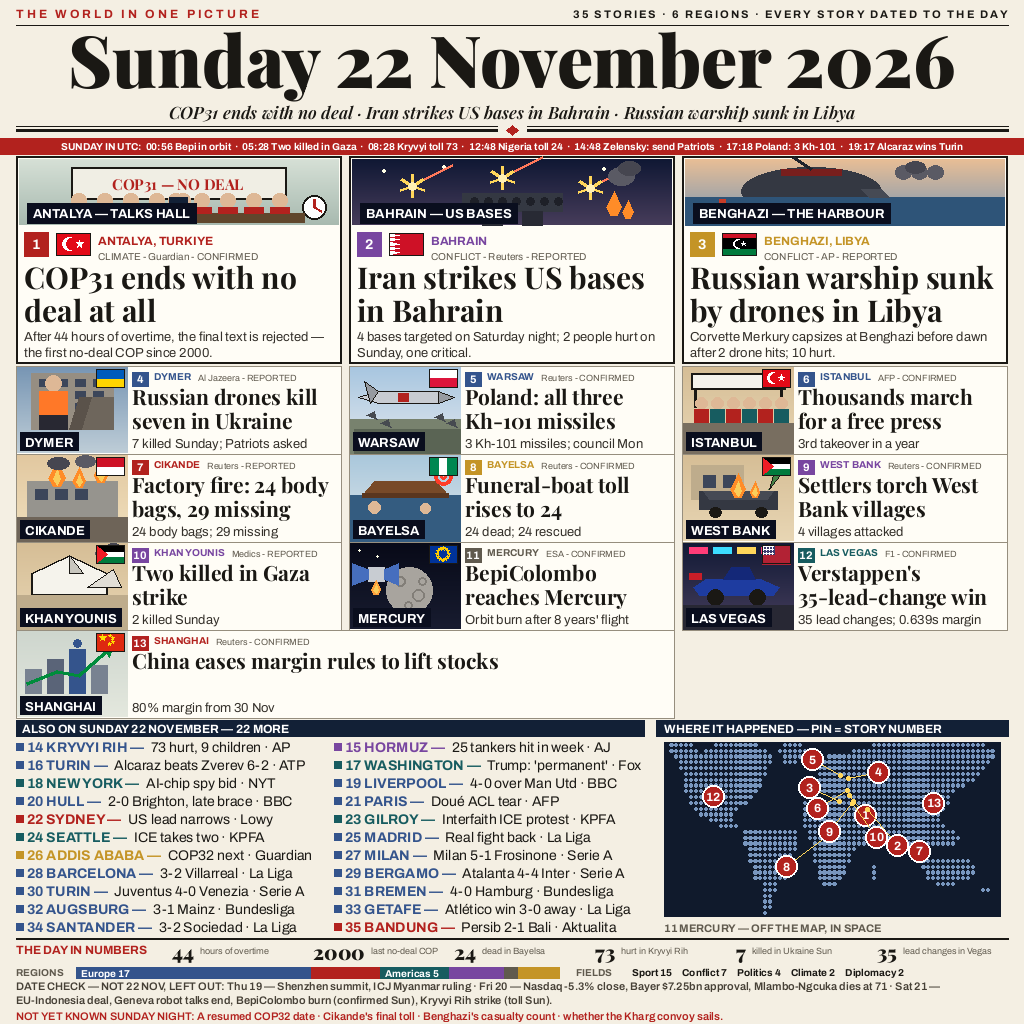
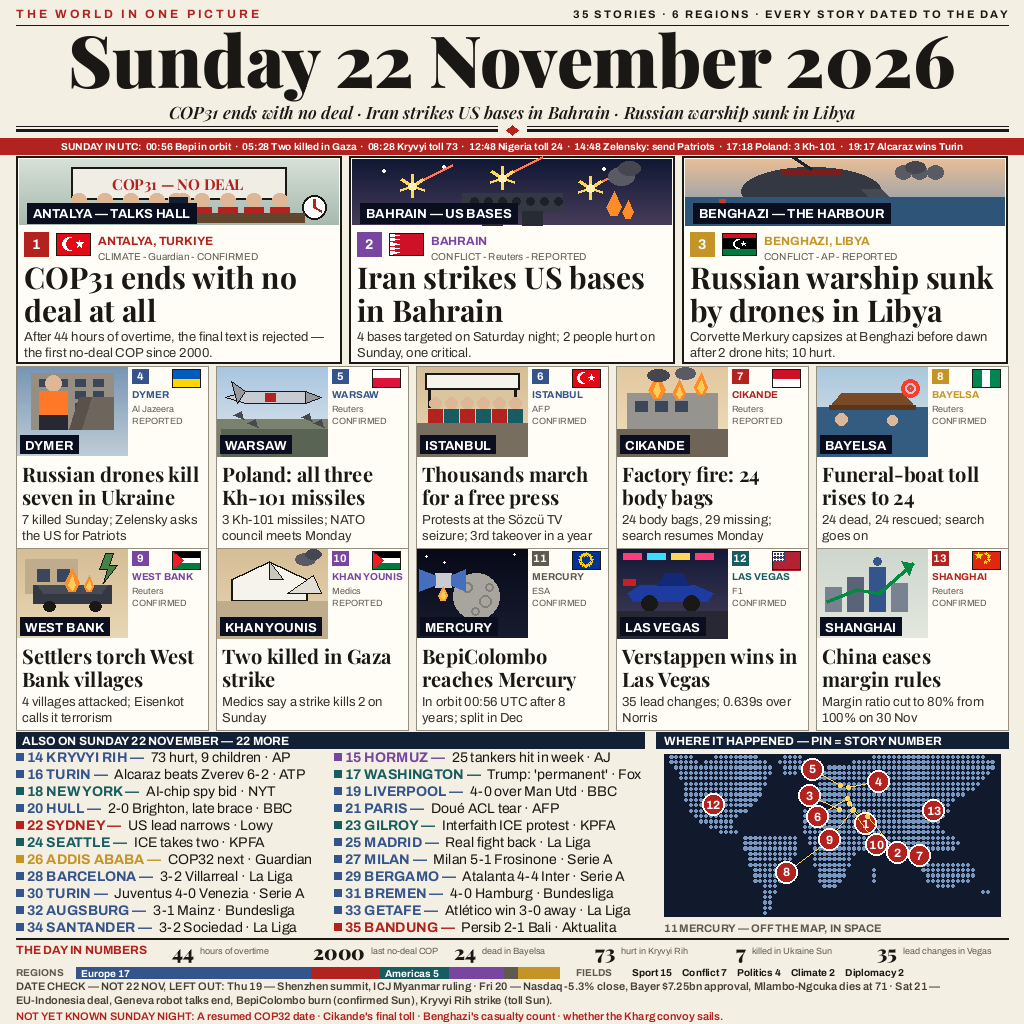
Winners' compact cards: 5-across x 2 rows, native scene + meta column, 20px headlines, merged decks

Changed region(s): [[0.0, 0.3438, 1.0, 0.9062]]

diff --git a/draw.py b/draw.py
@@ -79,7 +79,7 @@ CARDS = [
      "Istanbul protests the Sözcü TV seizure; a third media takeover "
      "in a year.", "AFP", "C"),
     ("CIKANDE", "ASI", "Disaster",
-     "Factory fire: 24 body bags, 29 missing",
+     "Factory fire: 24 body bags",
      "Search goes on after the candy-factory blaze; it resumes Monday.",
      "Reuters", "R"),
     ("BAYELSA", "AFR", "Disaster",
@@ -100,11 +100,11 @@ CARDS = [
      + FIG["bepicolombo_years"] + " years; orbiters split in December.",
      "ESA", "C"),
     ("LAS VEGAS", "AME", "Sport",
-     "Verstappen's 35-lead-change win",
+     "Verstappen wins in Las Vegas",
      "Holds off Norris by " + FIG["vegas_margin"] + "s in Las Vegas; "
      "Piastri third.", "F1", "C"),
     ("SHANGHAI", "ASI", "Economy",
-     "China eases margin rules to lift stocks",
+     "China eases margin rules",
      "Exchanges cut the minimum margin ratio to "
      + FIG["china_margin_new"] + " from " + FIG["china_margin_old"]
      + " on 30 November.", "Reuters", "C"),
@@ -554,19 +554,25 @@ def flag(d, code, x, y, w=34, h=22):
     d.rectangle([x, y, x + w, y + h], outline=INK, width=1)
 
 
-CARD_INFO = [
-    FIG["ukraine_killed_sunday"] + " killed Sunday; Patriots asked",
-    FIG["poland_missiles"] + " Kh-101 missiles; council Mon",
-    FIG["istanbul_takeover"] + " takeover in a year",
-    FIG["cikande_body_bags"] + " body bags; " + FIG["cikande_missing"]
-    + " missing",
-    FIG["bayelsa_dead"] + " dead; " + FIG["bayelsa_rescued"] + " rescued",
-    FIG["westbank_villages"] + " villages attacked",
-    FIG["gaza_killed_sunday"] + " killed Sunday",
-    "Orbit burn after " + FIG["bepicolombo_years"] + " years' flight",
+CARD_DECK = [
+    FIG["ukraine_killed_sunday"] + " killed Sunday; Zelensky asks the US "
+    "for Patriots",
+    FIG["poland_missiles"] + " Kh-101 missiles; NATO council meets Monday",
+    "Protests at the S\u00f6zc\u00fc TV seizure; " + FIG["istanbul_takeover"]
+    + " takeover in a year",
+    FIG["cikande_body_bags"] + " body bags, " + FIG["cikande_missing"]
+    + " missing; search resumes Monday",
+    FIG["bayelsa_dead"] + " dead, " + FIG["bayelsa_rescued"]
+    + " rescued; search goes on",
+    FIG["westbank_villages"] + " villages attacked; Eisenkot calls it "
+    "terrorism",
+    "Medics say a strike kills " + FIG["gaza_killed_sunday"] + " on Sunday",
+    "In orbit 00:56 UTC after " + FIG["bepicolombo_years"]
+    + " years; split in Dec",
     FIG["vegas_lead_changes"] + " lead changes; " + FIG["vegas_margin"]
-    + "s margin",
-    FIG["china_margin_new"] + " margin from 30 Nov",
+    + "s over Norris",
+    "Margin ratio cut to " + FIG["china_margin_new"] + " from "
+    + FIG["china_margin_old"] + " on 30 Nov",
 ]
 
 CARD_FLAGS = ["UA", "PL", "TR", "ID", "NG", "PS", "PS", "EU", "US", "CN"]
@@ -861,50 +867,54 @@ def main():
         text_block(d, x + 8, yy + 7, deck, SANS(13), (52, 48, 42), hw - 16, 16,
                    max_lines=2, tag=f"herodeck{i}")
     # ---------------------------------------------------------- cards
+    # compact winners' format: 5 across x 2 rows; native-size scene at
+    # the left, number/flag/place/source column beside it, headline and
+    # a merged deck (deck + key-fact line fused) below. 2 rows x 176px
+    # = the old 4 rows x 88px, so nothing below this block moves.
     cy = hy + hh + 3
-    chh, chw = 88, hw
+    chh, chw = 182, (W - 32 - 32) // 5
     for i, card in enumerate(CARDS):
-        place, region, field, head, deck, src, sure = card
-        x = 16 + (i % 3) * (chw + 8)
-        yy0 = cy + (i // 3) * chh
-        effw = chw * 2 + 8 if i == len(CARDS) - 1 else chw
-        d.rectangle([x, yy0, x + effw, yy0 + chh], fill=(255, 253, 246),
+        place, region, field, head, deck0, src, sure = card
+        x = 16 + (i % 5) * (chw + 8)
+        yy0 = cy + (i // 5) * chh
+        d.rectangle([x, yy0, x + chw, yy0 + chh], fill=(255, 253, 246),
                     outline=(150, 142, 126), width=1)
         for seg, lab in (
-                ((x, yy0, x + effw, yy0), f"card{i+4} top"),
-                ((x, yy0 + chh, x + effw, yy0 + chh), f"card{i+4} bottom"),
+                ((x, yy0, x + chw, yy0), f"card{i+4} top"),
+                ((x, yy0 + chh, x + chw, yy0 + chh), f"card{i+4} bottom"),
                 ((x, yy0, x, yy0 + chh), f"card{i+4} left"),
-                ((x + effw, yy0, x + effw, yy0 + chh), f"card{i+4} right")):
+                ((x + chw, yy0, x + chw, yy0 + chh), f"card{i+4} right")):
             LINES.append((seg, lab))
         for seg, lab in (
-                ((x, yy0, x + effw, yy0), f"card{i+4} top"),
-                ((x, yy0 + chh, x + effw, yy0 + chh), f"card{i+4} bottom"),
+                ((x, yy0, x + chw, yy0), f"card{i+4} top"),
+                ((x, yy0 + chh, x + chw, yy0 + chh), f"card{i+4} bottom"),
                 ((x, yy0, x, yy0 + chh), f"card{i+4} left"),
-                ((x + effw, yy0, x + effw, yy0 + chh), f"card{i+4} right")):
+                ((x + chw, yy0, x + chw, yy0 + chh), f"card{i+4} right")):
             LINES.append((seg, lab))
         TAG[0] = ("card", i)
-        CARD_SCENES[i](d, x + 1, yy0 + 1, 110, chh - 2)
+        CARD_SCENES[i](d, x + 1, yy0 + 1, 110, chh // 2 - 2)
         TAG[0] = None
-        flag(d, CARD_FLAGS[i], x + 80, yy0 + 3, w=28, h=18)
-        FLAGS.append(((x + 80, yy0 + 3, x + 108, yy0 + 21), f"card{i+4} flag", ("card", i)))
+        flag(d, CARD_FLAGS[i], x + 156, yy0 + 3, w=28, h=18)
+        FLAGS.append(((x + 156, yy0 + 3, x + 184, yy0 + 21),
+                      f"card{i+4} flag", ("card", i)))
         tx = x + 116
-        d.rectangle([tx, yy0 + 6, tx + 16, yy0 + 20],
+        d.rectangle([tx, yy0 + 3, tx + 16, yy0 + 17],
                     fill=REGIONS[region][1])
-        t = str(i + 4)
-        d.text((tx + 8 - d.textlength(t, font=SANS_B(11)) / 2, yy0 + 7),
-               t, font=SANS_B(11), fill=(255, 255, 255))
-        d.text((tx + 22, yy0 + 5), place, font=SANS_B(10),
+        tnum = str(i + 4)
+        d.text((tx + 8 - d.textlength(tnum, font=SANS_B(11)) / 2, yy0 + 4),
+               tnum, font=SANS_B(11), fill=(255, 255, 255))
+        d.text((tx, yy0 + 23), place, font=SANS_B(10),
                fill=REGIONS[region][1])
-        mx = tx + 22 + d.textlength(place, font=SANS_B(10)) + 7
-        cmeta = f"{src} - {SURE_LABEL[sure]}"
-        d.text((mx, yy0 + 7), cmeta, font=SANS(9), fill=MUTE)
-        check_h(f"card{i+4} meta", cmeta, SANS(9), mx, x + effw - 6)
-        text_block(d, tx, yy0 + 16, head, SERIF(21), INK, effw - 123, 24,
+        check_h(f"card{i+4} place", place, SANS_B(10), tx, x + chw - 4)
+        d.text((tx, yy0 + 38), src, font=SANS(9), fill=MUTE)
+        d.text((tx, yy0 + 50), SURE_LABEL[sure], font=SANS(9), fill=MUTE)
+        check_h(f"card{i+4} src", src, SANS(9), tx, x + chw - 4)
+        text_block(d, x + 6, yy0 + 94, head, SERIF(20), INK, chw - 12, 23,
                    max_lines=2, tag=f"card{i}")
-        d.text((tx, yy0 + 70), CARD_INFO[i], font=SANS(13),
-               fill=(52, 48, 42))
-        check_h(f"card{i+4} info", CARD_INFO[i], SANS(13), tx, x + effw - 6)
-    by = cy + 3 * chh + chh + 2
+        text_block(d, x + 6, yy0 + 146, CARD_DECK[i], SANS(13),
+                   (52, 48, 42), chw - 12, 16, max_lines=2,
+                   tag=f"carddeck{i}")
+    by = cy + 2 * chh + 2
 
     # -------------------------------------- ALSO rail (left) + map (right)
     sec_y = by
@@ -916,7 +926,7 @@ def main():
         col = i % 2
         row = i // 2
         x = 16 + col * (colw + 8)
-        yy = sec_y + 19 + row * 18
+        yy = sec_y + 17 + row * 17
         d.rectangle([x, yy + 4, x + 7, yy + 11], fill=REGIONS[region][1])
         head = f"{i + 14} {place} — "
         d.text((x + 11, yy), head, font=SANS_B(14),
@@ -936,7 +946,7 @@ def main():
             SANS_B(12), mx0 + 8, mx1 - 8)
     check_h("also header", f"ALSO ON SUNDAY 22 NOVEMBER — {len(ALSO)} MORE",
             SANS_B(12), 22, 644 - 8)
-    map_y, map_h, map_w = sec_y + 22, 174, mx1 - mx0 - 16
+    map_y, map_h, map_w = sec_y + 22, 162, mx1 - mx0 - 16
     map_x = mx0 + 8
     d.rectangle([map_x, map_y, map_x + map_w, map_y + map_h], fill=(16, 26, 44))
     cw, chh2 = map_w / 68, map_h / 30
@@ -962,7 +972,7 @@ def main():
     cap_y = map_y + map_h + 6
     d.text((mx0 + 8, cap_y), "11 MERCURY — OFF THE MAP, IN SPACE", font=SANS_B(11), fill=MUTE)
     check_h("map caption", "11 MERCURY — OFF THE MAP, IN SPACE", SANS_B(11), mx0 + 8, mx1 - 8)
-    by = sec_y + 218
+    by = sec_y + 206
 
     # ------------------------------------------------- numbers + bars
     d.line([16, by, W - 16, by], fill=INK, width=2)

diff --git a/README.md b/README.md
@@ -22,11 +22,12 @@ deterministic bytes.
 
 Edition 21's top 10 were counted directly from their artefacts: 35-43
 stories each, built as pictured stories over a dense one-line "ALSO"
-rail. This entry locks exactly 35: 3 heroes + 10 cards pictured large
-(card headlines 21px; the last card spans two columns), plus a 22-line
-ALSO ON SUNDAY 22 NOVEMBER rail of numbered one-line briefs (place,
-key fact, source) at 14px, the brief-text floor. Density is
-quarantined in the rail; the pictured layer stays airy.
+rail. This entry locks exactly 35: 3 heroes + 10 cards in the winners'
+compact format (5 across x 2 rows: native-size scene, number/flag/
+place/source column, 20px headline, merged deck) plus a 22-line ALSO
+ON SUNDAY 22 NOVEMBER rail of numbered one-line briefs (place, key
+fact, source) at 14px, the brief-text floor. Density is quarantined
+in the rail; the pictured layer stays airy.
 
 ## License
 
